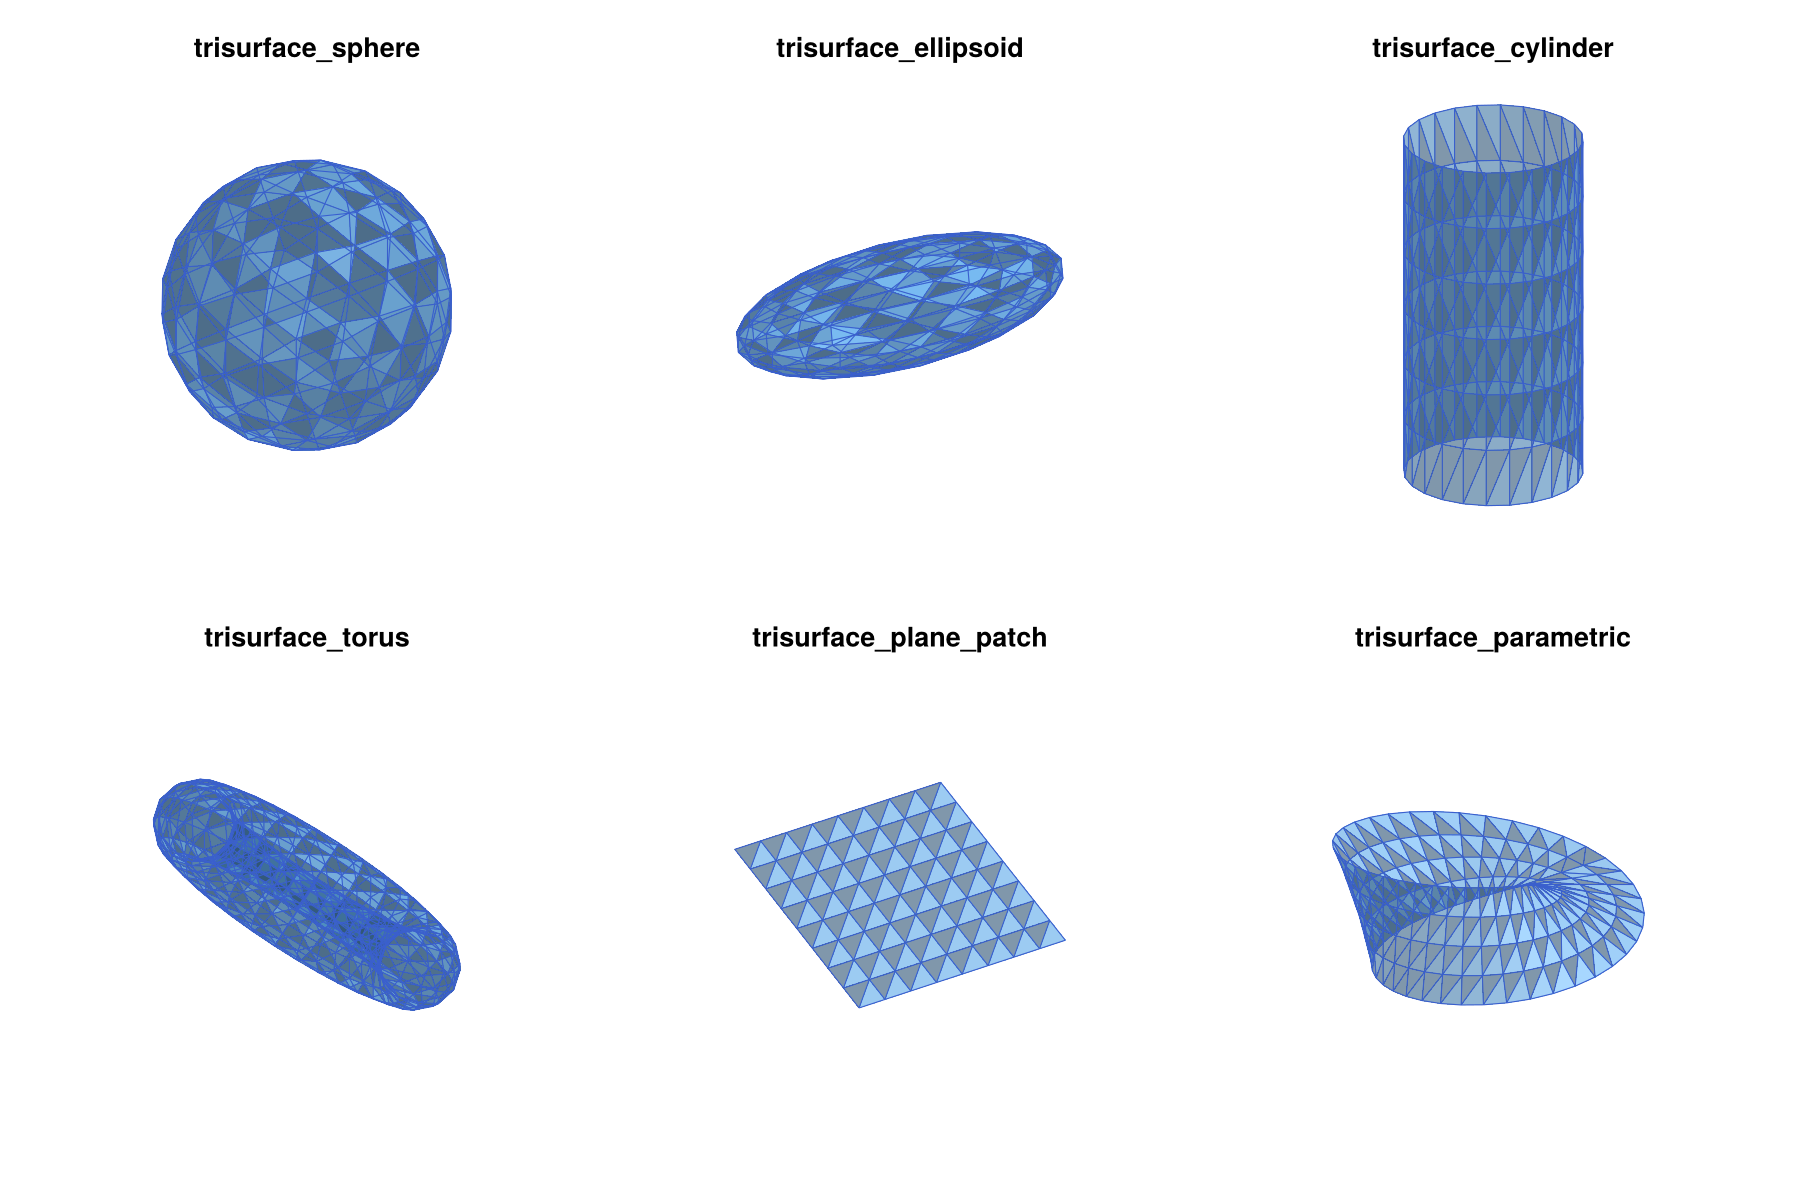
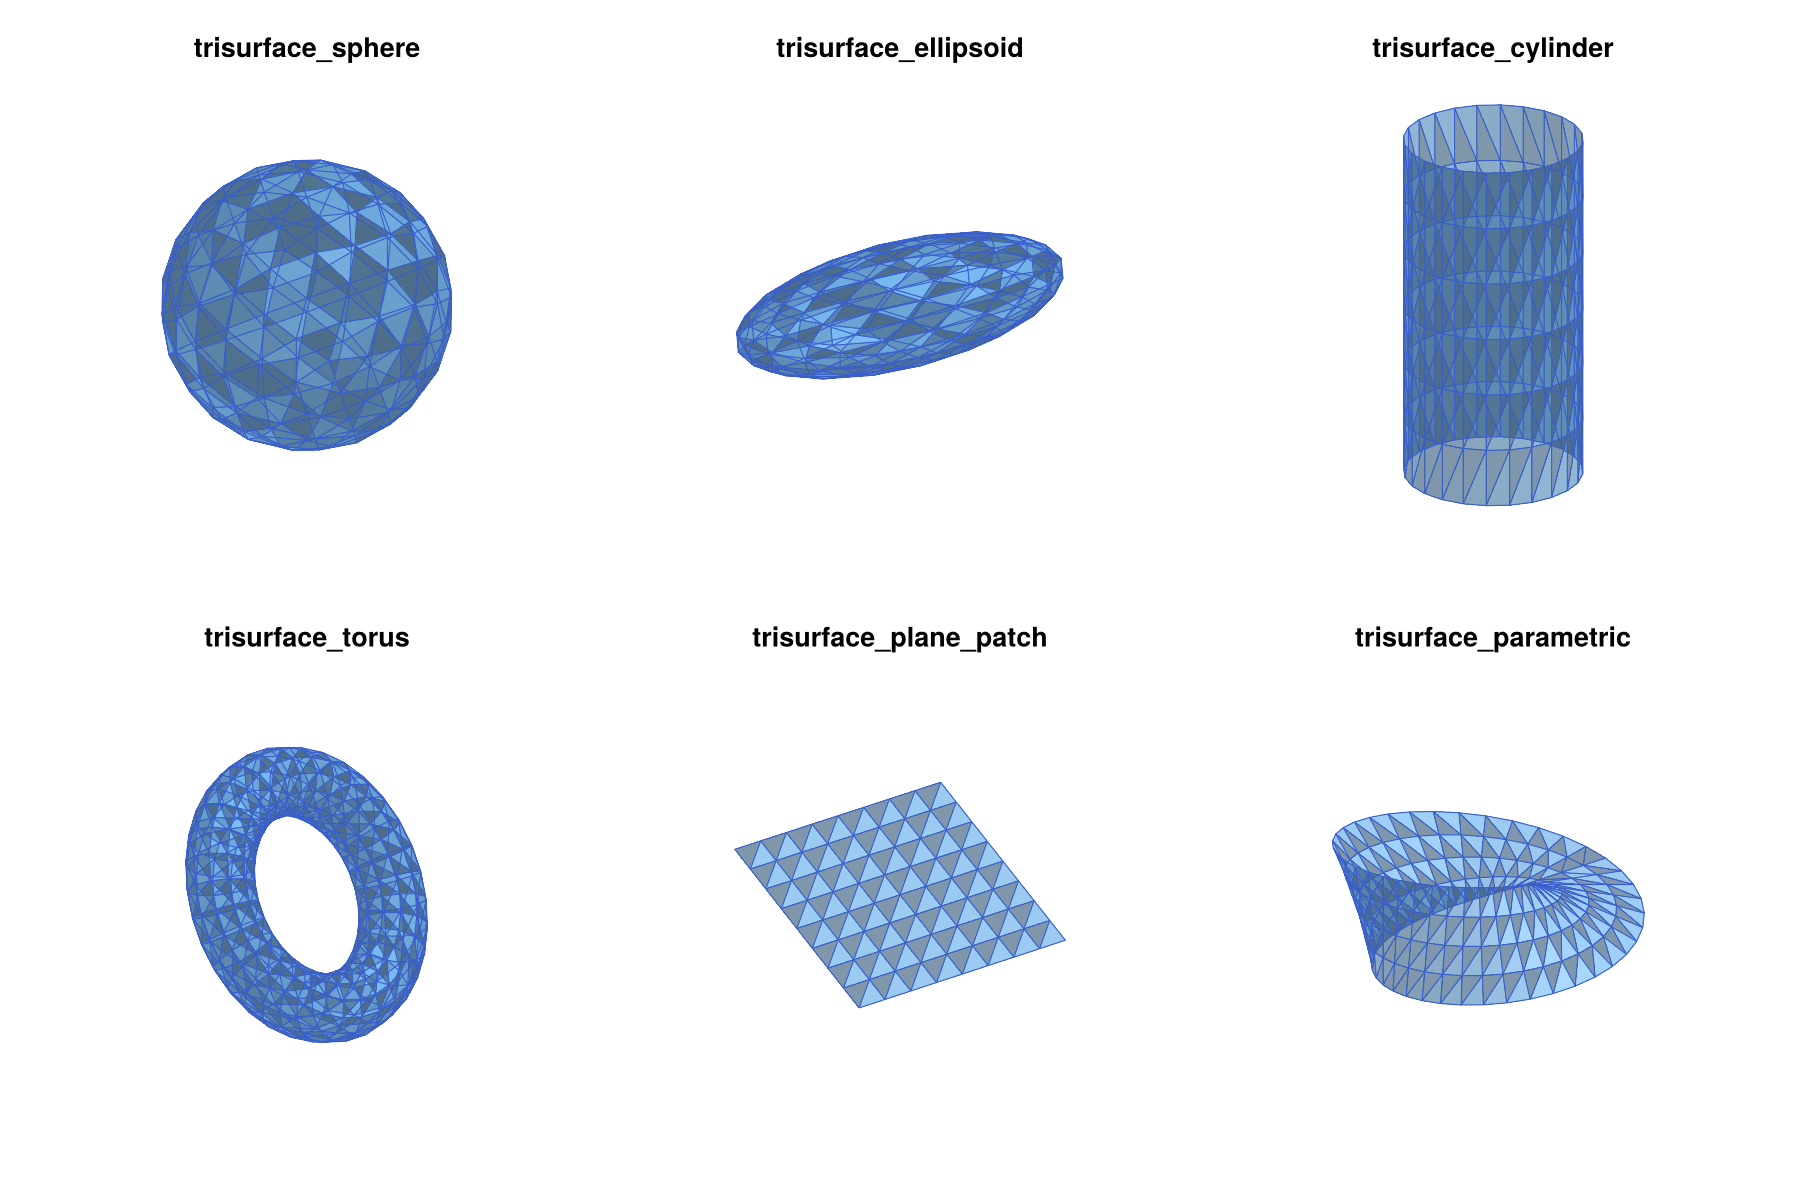
The torus in the figure of the six triangulated surface generators in the manual chapter on three-dimensional meshes now shows its hole. The default Makie camera looked almost edge-on at the tilted torus, so the panel now uses its own camera with azimuth 1.6π and elevation 0.3π, while the code shown

Changed region(s): [[0.0622, 0.6167, 0.28, 0.8942]]

diff --git a/docs/src/man/meshing3d.md b/docs/src/man/meshing3d.md
@@ -1,15 +1,16 @@
 # Three-Dimensional Meshes
 
-This chapter is concerned with complexes in three dimensions. The
-analysis functions of
-[ConleyDynamics.jl](https://almost6heads.github.io/ConleyDynamics.jl)
-do not depend on the dimension of the underlying space. In particular,
-[`create_spatial_mvf`](@ref) accepts tetrahedral meshes, and homology,
-Morse decompositions, and connection matrices can be computed for any
-[`EuclideanComplex`](@ref). What is needed in addition is a way to
-*create* tetrahedral meshes of interesting domains, and a way to *look*
-at them. The package provides three layers of functionality for the
-first task:
+This chapter is concerned with complexes in three dimensions. While 
+most of the analysis methods of
+[ConleyDynamics.jl](https://almost6heads.github.io/ConleyDynamics.jl),
+such as for example the homology, Morse decomposition, and connection
+matrix functions, do not depend on the dimension of the underlying
+space and can be computed for any [`EuclideanComplex`](@ref), other 
+functionality is dimension dependent. This is the case for the function
+[`create_spatial_mvf`](@ref), which accepts tetrahedral meshes. What is 
+therefore needed in addition is a way to create tetrahedral meshes of 
+interesting domains, and a way to look at them. The package provides 
+three layers of functionality for the first task:
 
 * Core functions, which are available without loading any other package.
   They import meshes from arbitrary sources, create random point samples,
@@ -137,7 +138,7 @@ are used throughout the chapter. Readers who are familiar with meshes
 and homology can skip it.
 
 **Simplices and meshes.** The building blocks of all meshes in this
-chapter are *simplices*: vertices (dimension `0`), edges (dimension
+chapter are *simplices*: Vertices (dimension `0`), edges (dimension
 `1`), triangles (dimension `2`), and tetrahedra (dimension `3`). The
 *faces* of a simplex are the simplices spanned by subsets of its
 vertices, see also the [Tutorial](@ref). For example, a tetrahedron has
@@ -201,9 +202,9 @@ prescribed triangles and edges, and which is as close to Delaunay as
 possible otherwise.
 
 **Mesh quality.** For the construction of multivector fields, the
-tetrahedra should be well-shaped, i.e., not too flat or too thin. Two
-standard measures of the shape of a tetrahedron are used below. The
-*radius-edge ratio* is the radius of the circumsphere divided by the
+tetrahedra should generally be well-shaped, i.e., not too flat or too 
+thin. Two standard measures of the shape of a tetrahedron are used below. 
+The *radius-edge ratio* is the radius of the circumsphere divided by the
 length of the shortest edge. A regular tetrahedron, whose six edges
 all have the same length, has the smallest possible ratio
 `sqrt(6)/4 ≈ 0.61`, and the ratio becomes large for tetrahedra with a
@@ -220,7 +221,7 @@ available without loading any extension.
 ### Importing Meshes
 
 Every mesh generator describes a simplicial mesh in essentially the same
-way: by a list of vertex coordinates and a list of maximal simplices,
+way: By a list of vertex coordinates and a list of maximal simplices,
 each given by the indices of its vertices. The function
 [`tetmesh_to_euclidean`](@ref) turns such a description into an
 [`EuclideanComplex`](@ref), and it automatically adds all faces of the
@@ -535,15 +536,15 @@ in [Loading the Required Packages](@ref meshing3d_loading). Note that
 
 A [`TetDomain`](@ref) is a plain Julia struct with five fields:
 
-* `points`: the vertices of the domain description, as tuples of three
+* `points`: The vertices of the domain description, as tuples of three
   numbers,
-* `facets`: the facets, each given by a vector of indices into `points`.
+* `facets`: The facets, each given by a vector of indices into `points`.
   A facet with at least three vertices is a planar polygon, a facet with
   two vertices is a segment, and a facet with one vertex is a single
   point,
-* `markers`: an integer marker for every facet,
-* `holes`: one point inside every hole, and
-* `regions`: for every region, a point inside it, an integer attribute,
+* `markers`: An integer marker for every facet,
+* `holes`: One point inside every hole, and
+* `regions`: For every region, a point inside it, an integer attribute,
   and a maximal tetrahedron volume.
 
 The markers identify the different parts of the domain description after
@@ -571,6 +572,34 @@ dom.markers
 The one-line summary shown above is printed whenever a `TetDomain` is
 displayed in the REPL. It is a quick way to check that every added
 constraint received the intended marker.
+
+The numbers of holes and regions in this summary are easily
+misunderstood. Closed surfaces divide the domain into several parts,
+which we call *chambers*, since tetrahedra cannot cross facets. A box
+with a sphere inside, for example, has two chambers, namely the inside
+of the sphere and the box minus the ball. Without further instructions,
+`TetGen` meshes all chambers. The fields `holes` and `regions` attach
+instructions to individual chambers, each of which is identified by a
+point inside it:
+
+* A *hole* point means that the chamber containing it is removed.
+* A *region* point means that the chamber containing it is kept, its
+  tetrahedra receive an integer attribute, and they can optionally be
+  given their own maximal volume.
+
+A region in the sense of `TetGen` is therefore not a chamber, but a
+label which is attached to a chamber. The summary counts these
+instructions, i.e., it shows `length(dom.holes)` and
+`length(dom.regions)`, and not the number of chambers. A box with a
+spherical hole, as in the section on [Holes](@ref) below, has two
+chambers, but the summary reads `1 holes, 0 regions`:
+One chamber is removed, and the other one is meshed without a label.
+Labels are needed only for local refinement and for finding the
+tetrahedra of a chamber after meshing, as described in
+[Regions and Local Refinement](@ref). As soon as at least one region
+is specified, `TetGen` labels all chambers, and the chambers without a
+region point receive attributes which it chooses itself. Without any
+region points, no attributes are assigned at all.
 
 ### Meshing a Box
 
@@ -628,7 +657,7 @@ software.
 Besides `maxvolume`, the function [`tetgen_mesh`](@ref) accepts the
 following optional arguments:
 
-* `minratio`: an upper bound for the radius-edge ratio of the
+* `minratio`: An upper bound for the radius-edge ratio of the
   tetrahedra, see [Basic Notions](@ref meshing3d_notions). This ratio is
   the standard quality measure of `TetGen`, and well-shaped tetrahedra
   have small ratios. The default value `1.414` (approximately `sqrt(2)`)
@@ -639,23 +668,23 @@ following optional arguments:
   rejected with an `ArgumentError` (with `minratio=0.8`, `TetGen` was
   still running after two minutes in our tests), and values close to
   `1` lead to very fine meshes.
-* `mindihedral`: a lower bound for the dihedral angles of the
+* `mindihedral`: A lower bound for the dihedral angles of the
   tetrahedra, in degrees, strictly between `0` and `90`, see
   [Basic Notions](@ref meshing3d_notions). It is used in
   addition to `minratio`. If `minratio=nothing`, the ratio bound `2.0`
   is used together with it. `TetGen` treats this bound as a goal, but it
-  does not guarantee it: in the table below, the mesh created with
+  does not guarantee it. In the table below, the mesh created with
   `mindihedral=15` still contains a dihedral angle of `2.33°`. Large
-  values can make `TetGen` fail: on the box, `mindihedral=30` works,
+  values can make `TetGen` fail. On the box, `mindihedral=30` works,
   but `mindihedral=50` leads to an error.
-* `steiner_on_boundary`: whether `TetGen` may insert additional points
+* `steiner_on_boundary`: Whether `TetGen` may insert additional points
   on the boundary and on constraint facets. Points which are added by
   the mesh generator, rather than given by the user, are called
   *Steiner points*. They are needed both to satisfy the quality bounds
   and to split long boundary edges. This is `true` by default.
-* `quiet`: whether the output of `TetGen` is suppressed. Passing
+* `quiet`: Whether the output of `TetGen` is suppressed. Passing
   `quiet=false` prints the statistics of the mesh generation.
-* `switches`: a complete `TetGen` command line switch string, which
+* `switches`: A complete `TetGen` command line switch string, which
   overrides all other optional arguments.
 
 Passing `minratio=nothing` without `mindihedral` switches the quality
@@ -673,7 +702,7 @@ contains the smallest dihedral angle in the mesh:
 
 The table illustrates two points which are important in practice. First,
 the quality bounds of `TetGen` remove most badly shaped tetrahedra, but
-they do not guarantee the absence of *slivers*: Flat tetrahedra with
+they do not guarantee the absence of *slivers*. These are flat tetrahedra with
 four nearly coplanar vertices, whose radius-edge ratio can be small even
 though their dihedral angles are close to `0°` or `180°`. A few such
 tetrahedra are harmless for the construction of multivector fields.
@@ -926,7 +955,7 @@ ec5  = tetgen_to_simplicial(tetgen_mesh(dom5; maxvolume=0.05))
 homology(ec5)                  # [1, 1, 1, 0]
 ```
 
-The automatically chosen point refers to the region enclosed by the
+The automatically chosen point refers to the chamber enclosed by the
 surface *at the time it is added*. The ray stops at all surfaces which
 are already part of the domain, so a hole surface around a previously
 added surface removes only the space between the two. If further
@@ -968,7 +997,7 @@ homology(ec4)                  # [2, 0, 1, 0]
 
 ![Domains with holes, clipped at y = 0](img/meshing3d_holes.png)
 
-A hole point must lie in a region which is completely enclosed by facets.
+A hole point must lie in a chamber which is completely enclosed by facets.
 Otherwise, `TetGen` removes everything that can be reached from it, which
 is usually the whole domain. Holes and regions also require closed and
 consistently oriented surfaces, which is checked when the surface is
@@ -1455,7 +1484,7 @@ sphere = gmsh.model.occ.addSphere(0, 0, 0, 1.0)
 plane  = gmsh.model.occ.addRectangle(-2, -2, 0.3, 4, 4)
 gmsh.model.occ.synchronize()
 
-# 2. We only need the sphere as a surface: take its boundary surface
+# 2. We only need the sphere as a surface: Take its boundary surface
 #    and delete the volume itself.
 
 sphsurf = gmsh.model.getBoundary([(3, sphere)], false, false)
@@ -1552,7 +1581,7 @@ unique(ec.dimensions[toptri]), length(toptri)        # ([2], 206)
 ```
 
 Finding the intersection circle as an entity is slightly more involved,
-since the OpenCASCADE sphere has a *seam*: a meridian curve along which
+since the OpenCASCADE sphere has a *seam*: A meridian curve along which
 the parametrization of the sphere is glued. Its pieces belong to the
 boundary of the caps as well. The intersection circle is the curve which
 the two caps have in common:
@@ -1573,7 +1602,7 @@ lists of the physical groups and their intersections, as above.
 [`gmsh_common_refinement`](@ref) is a thin wrapper around the
 OpenCASCADE function `gmsh.model.occ.fragment`, which splits a list of
 *object* entities and a list of *tool* entities along all their
-intersections. It returns two values: a vector `out` with all resulting
+intersections. It returns two values: A vector `out` with all resulting
 entities, and a vector `outmap`, whose `k`-th entry contains the pieces
 of the `k`-th input entity, in the order objects first, then tools. The
 tags of the pieces depend on the internal bookkeeping of OpenCASCADE,
@@ -1691,7 +1720,7 @@ gmsh.finalize()
 ```
 
 The physical groups are numbered in the order in which they were
-created: the box, the plane, and the sphere by
+created: The box, the plane, and the sphere by
 [`gmsh_common_refinement`](@ref), and the upper part of the box
 afterwards. Their tags are therefore `1` to `4`, and each tag comes
 with the dimension of its group.
@@ -1711,7 +1740,7 @@ with the dimension of its group.
 ### Common Refinements of Several Objects
 
 The function [`gmsh_common_refinement`](@ref) accepts any number of
-objects of dimensions `0` to `3`: volumes, surfaces, curves, and single
+objects of dimensions `0` to `3`: Volumes, surfaces, curves, and single
 points. All of them are refined together, so that the mesh of every
 object is a subcomplex, and the intersection of any two objects is the
 intersection of their subcomplexes. As a second example, consider two
